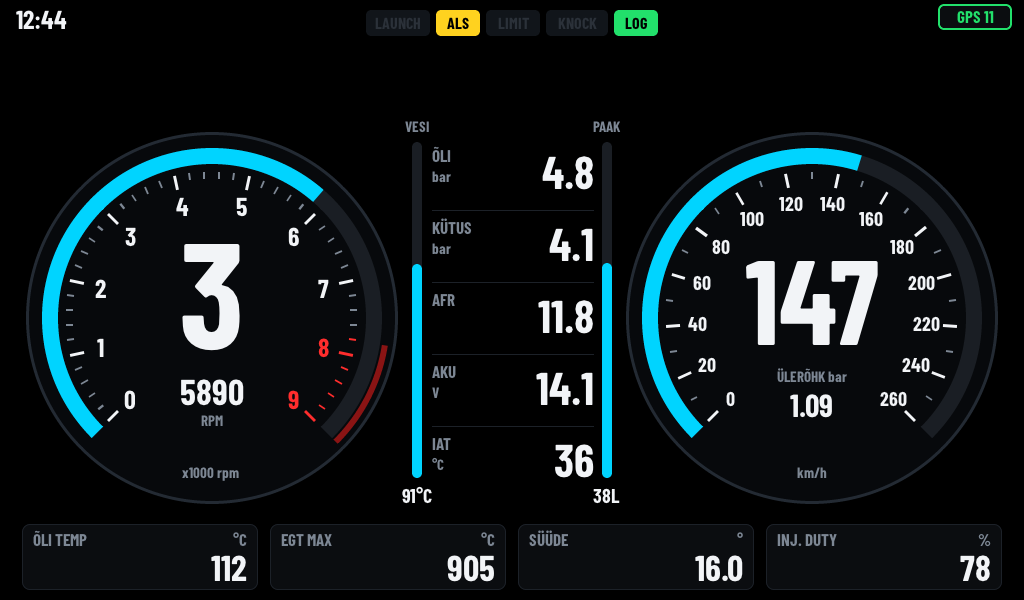
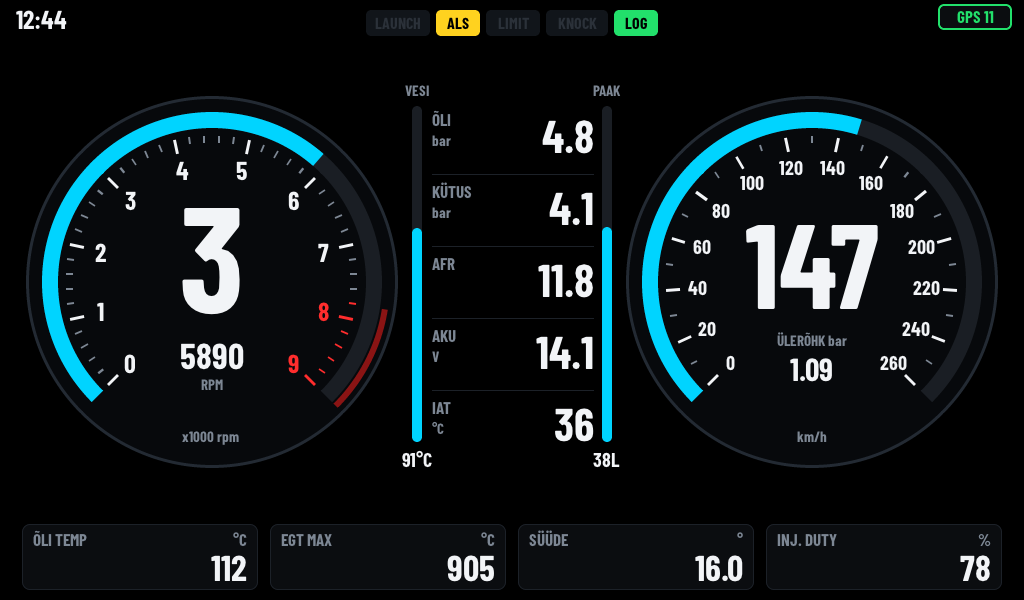
Release v0.4.6: KELLAD middle section raised

diff --git a/main/page_gauges.c b/main/page_gauges.c
@@ -8,7 +8,7 @@
 #include "dash_common.h"
 
 #define R      186          /* kella raadius */
-#define CY     318
+#define CY     282
 #define CX_L   212
 #define CX_R   (W - 212)
 #define SWEEP  270          /* kella kaare ulatus kraadides */
@@ -156,11 +156,11 @@ static void vbar_create(vbar_t *b, const dash_tile_t *cfg, lv_obj_t *parent, int
     b->cfg = dash_units(*cfg);
     cfg = &b->cfg;
     b->alarm = -1;
-    lv_obj_t *cap = centered_label(parent, 15, C_DIM, x - 25, 118, 60);
+    lv_obj_t *cap = centered_label(parent, 15, C_DIM, x - 25, 82, 60);
     lv_label_set_text(cap, cfg->label);
     b->bar = dash_bar(parent, 10, 336, true);
-    lv_obj_set_pos(b->bar, x, 142);
-    b->val = centered_label(parent, 20, C_TEXT, x - 25, 484, 60);
+    lv_obj_set_pos(b->bar, x, 106);
+    b->val = centered_label(parent, 20, C_TEXT, x - 25, 448, 60);
 }
 
 static void vbar_update(vbar_t *b, const dash_state_t *s)
@@ -213,7 +213,7 @@ static void create(lv_obj_t *scr)
     p.boost = centered_label(scr, 32, C_TEXT, CX_R - 80, CY + 68, 160);
 
     /* Keskmine tulp */
-    const int col_x = 432, col_w = 162, row_h = 66, top = 142;
+    const int col_x = 432, col_w = 162, row_h = 66, top = 106;
     for (size_t i = 0; i < N_CENTER; i++) {
         row_t *r = &p.rows[i];
         r->cfg = dash_units(CENTER[i]);
@@ -290,4 +290,4 @@ static void update(const dash_state_t *s)
     dash_flags_update(&p.flags, s);
 }
 
-const dash_page_t page_gauges = { "KELLAD", 52, create, update, NULL, NULL, 938, 4, 16, 4, 856, 4 };
+const dash_page_t page_gauges = { "KELLAD", 40, create, update, NULL, NULL, 938, 4, 16, 4, 856, 4 };

diff --git a/main/version.h b/main/version.h
@@ -1,3 +1,3 @@
 /* SimplDash versioon – ainus koht, kus seda muuta (CMake loeb selle siit). */
 #pragma once
-#define SIMPLDASH_VERSION "0.4.5"
+#define SIMPLDASH_VERSION "0.4.6"

diff --git a/README.md b/README.md
@@ -85,7 +85,7 @@ Iga [reliisi](https://github.com/1mreausta/SimplDash/releases) juures on kaks fa
   Flash Address `0x0`, vali fail `simpldash-vX.Y.bin` → Program; või
 - **käsurealt:** `pip install esptool`, siis
   ```bash
-  esptool --chip esp32p4 write-flash 0x0 simpldash-v0.4.5.bin
+  esptool --chip esp32p4 write-flash 0x0 simpldash-v0.4.6.bin
   ```
 
 > **v0.3 või vanemalt v0.4-le: kindlasti USB kaudu, terve fail aadressile 0x0.** Versioonis 0.4 muutus välkmälu

diff --git a/CHANGELOG.md b/CHANGELOG.md
@@ -1,5 +1,9 @@
 # Muudatused
 
+## v0.4.6 – 2026-11-20
+- KELLAD vaate keskosa (kellad, keskmine tulp, VESI/PAAK ribad) on kõrgemal: vahe olekulippude ja alumise
+  reaga on võrdne. Hoiatusriba on selles vaates veidi kõrgemal, et see ei kataks ÕLI rida.
+
 ## v0.4.5 – 2026-11-20
 - Veebilehe odomeeter lükkab vigase väärtuse tagasi (negatiivne, lõpmatu, „nan“ rikkusid veebilehe oleku).
 - Wi-Fi nime ei saa veebilehel tühjaks teha.
